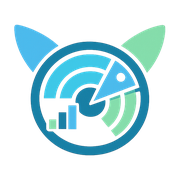
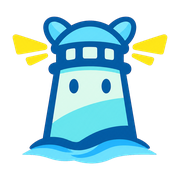
feat(web): refine landing content and branding

diff --git a/apps/web/features/landing/landing-page.tsx b/apps/web/features/landing/landing-page.tsx
@@ -20,7 +20,6 @@ import { getTranslations } from "next-intl/server";
 
 import { Button } from "@/components/ui/button";
 import { brand } from "@/config/brand";
-import { siteConfig } from "@/config/site";
 import type { AppLocale } from "@/i18n/routing";
 
 import {
@@ -164,7 +163,6 @@ export async function LandingPage({
       locale,
       namespace: "Landing",
     })) as LandingTranslator);
-  const otherLocale = locale === "zh" ? "en" : "zh";
   const headerLabels: LandingHeaderLabels = {
     navLabel: t("navLabel"),
     mobileNavLabel: t("mobileNavLabel"),
@@ -334,7 +332,7 @@ export async function LandingPage({
             />
             <SystemFlow t={t} />
             <div className="mt-6 grid gap-4 lg:grid-cols-3">
-              {features.map(([Icon, title, body], index) => (
+              {features.map(([Icon, title, body]) => (
                 <article
                   key={title}
                   className="rounded-3xl border border-glass-border bg-white/82 p-6 shadow-soft"
@@ -348,11 +346,6 @@ export async function LandingPage({
                   <p className="mt-3 text-sm leading-7 text-muted-foreground [text-wrap:pretty]">
                     {body}
                   </p>
-                  {index === 1 ? (
-                    <p className="mt-5 rounded-2xl border border-emerald-200 bg-emerald-50/80 p-4 text-sm font-semibold leading-7 text-emerald-950 [text-wrap:pretty]">
-                      {t("breedingCallout")}
-                    </p>
-                  ) : null}
                 </article>
               ))}
             </div>
@@ -434,24 +427,9 @@ export async function LandingPage({
           <div className="flex flex-wrap gap-x-5 gap-y-3 text-sm font-semibold">
             <a
               className="min-h-11 content-center hover:text-emerald-200"
-              href={siteConfig.repositoryUrl}
-              target="_blank"
-              rel="noopener noreferrer"
+              href="mailto:ghsy950525@gmail.com"
             >
-              {t("footerGithub")}
-            </a>
-            <a
-              className="min-h-11 content-center hover:text-emerald-200"
-              href={`/${locale}/login`}
-            >
-              {t("footerConsole")}
-            </a>
-            <a
-              className="min-h-11 content-center hover:text-emerald-200"
-              href={`/${otherLocale}`}
-              hrefLang={otherLocale === "zh" ? "zh-CN" : "en"}
-            >
-              {t("footerLanguage")}
+              {t("footerDeveloper")}
             </a>
             <span className="min-h-11 content-center text-white/60">
               © {new Date().getUTCFullYear()}

diff --git a/apps/web/tests/landing-content.test.tsx b/apps/web/tests/landing-content.test.tsx
@@ -100,6 +100,9 @@ describe("localized public landing content", () => {
     expect(container.textContent).toContain("脱敏数据");
     expect(container.textContent).toContain("不会上传完整存档");
     expect(container.textContent).toContain("规划多代路线");
+    expect(container.textContent).not.toContain(
+      "不必先找到一只已经集齐全部目标被动的亲本。",
+    );
     expect(container.textContent).toContain("收藏常用方案");
     expect(container.querySelector("[data-system-flow]")).not.toBeNull();
     expect(container.querySelectorAll("[data-system-node]")).toHaveLength(4);
@@ -111,13 +114,23 @@ describe("localized public landing content", () => {
         "Keep your Palworld Visible.",
       ),
     ).toBeTruthy();
+    expect(
+      within(container.querySelector("footer")!)
+        .getByRole("link", {
+          name: "联系方式：ghsy950525@gmail.com",
+        })
+        .getAttribute("href"),
+    ).toBe("mailto:ghsy950525@gmail.com");
     expect(container.textContent).not.toContain("产品界面示意");
     expect(container.textContent).not.toContain(
       "下面的答案与当前 palbeacon-cli 和网页实现保持一致",
     );
     expect(container.textContent).not.toContain("此公开页面不会生成真实配对码");
     expect(container.textContent).not.toContain("palbeacon-sync");
-    expect(container.querySelector('a[href="/en"]')).not.toBeNull();
+    const footer = container.querySelector("footer")!;
+    expect(footer.querySelector('a[href*="github.com"]')).toBeNull();
+    expect(footer.querySelector('a[href$="/login"]')).toBeNull();
+    expect(footer.querySelector("a[hreflang]")).toBeNull();
   });
 
   it("renders a fully localized English main story with the same structure", async () => {
@@ -146,7 +159,14 @@ describe("localized public landing content", () => {
     );
     expect(main.queryByText(/幻兽帕鲁|存档同步|帕鲁库存/)).toBeNull();
     expect(container.textContent).not.toContain("palbeacon-sync");
-    expect(container.querySelector('a[href="/zh"]')).not.toBeNull();
+    const footer = container.querySelector("footer")!;
+    expect(footer.querySelectorAll("a")).toHaveLength(1);
+    expect(footer.querySelector("a")?.textContent).toBe(
+      "Contact: ghsy950525@gmail.com",
+    );
+    expect(footer.querySelector("a")?.getAttribute("href")).toBe(
+      "mailto:ghsy950525@gmail.com",
+    );
   });
 
   it("publishes parseable WebSite, SoftwareApplication and visible FAQ data", async () => {

diff --git a/apps/web/tests/brand.test.ts b/apps/web/tests/brand.test.ts
@@ -1,4 +1,5 @@
-import { statSync } from "node:fs";
+import { createHash } from "node:crypto";
+import { readFileSync, statSync } from "node:fs";
 import { resolve } from "node:path";
 
 import { describe, expect, it } from "vitest";
@@ -34,16 +35,56 @@ describe("PalBeacon brand configuration", () => {
         start_url: "/zh",
       }),
     );
+    expect(manifest().icons?.[0]).toEqual(
+      expect.objectContaining({
+        src: "/icon.png",
+        sizes: "512x512",
+        type: "image/png",
+      }),
+    );
   });
 
   it("ships the optimized logo and browser app icons", () => {
-    for (const path of [
-      "public/brand/palbeacon-logo.png",
-      "app/icon.png",
-      "app/apple-icon.png",
-      "app/favicon.ico",
-    ]) {
+    const assets = {
+      "public/brand/palbeacon-logo.png":
[1 lines of base64/hex data omitted]
+      "app/icon.png":
[1 lines of base64/hex data omitted]
+      "app/apple-icon.png":
[1 lines of base64/hex data omitted]
+      "app/favicon.ico":
[1 lines of base64/hex data omitted]
+    } as const;
+
+    for (const [path, expectedHash] of Object.entries(assets)) {
       expect(statSync(resolve(process.cwd(), path)).size).toBeGreaterThan(0);
+      expect(
+        createHash("sha256")
+          .update(readFileSync(resolve(process.cwd(), path)))
+          .digest("hex"),
+      ).toBe(expectedHash);
     }
+
+    for (const [path, expectedSize] of [
+      ["public/brand/palbeacon-logo.png", 1024],
+      ["app/icon.png", 512],
+      ["app/apple-icon.png", 180],
+    ] as const) {
+      const png = readFileSync(resolve(process.cwd(), path));
+      expect(png.readUInt32BE(16)).toBe(expectedSize);
+      expect(png.readUInt32BE(20)).toBe(expectedSize);
+      expect(png[25]).toBe(6);
+    }
+  });
+
+  it("lets Next.js fingerprint file-based browser icons", () => {
+    const localeLayout = readFileSync(
+      resolve(process.cwd(), "app/[locale]/layout.tsx"),
+      "utf8",
+    );
+
+    expect(localeLayout).not.toContain('url: "/favicon.ico"');
+    expect(localeLayout).not.toContain('url: "/icon.png"');
+    expect(localeLayout).not.toContain('url: "/apple-icon.png"');
   });
 });

diff --git a/apps/web/features/landing/product-carousel.tsx b/apps/web/features/landing/product-carousel.tsx
@@ -520,9 +520,11 @@ function RouteSlide({ locale }: Readonly<{ locale: AppLocale }>) {
         <CompactMetric value="4" label={t("carouselTargetPassives")} />
         <CompactMetric value="0" label={t("carouselMissing")} />
       </div>
-      <div className="flex items-center gap-2 rounded-2xl bg-primary px-3 py-3 text-xs font-bold text-primary-foreground shadow-sm">
+      <div className="flex min-w-0 items-center gap-2 rounded-2xl bg-primary px-3 py-3 text-xs font-bold text-primary-foreground shadow-sm">
         <GitBranch aria-hidden="true" className="size-4 shrink-0" />
-        <span className="[text-wrap:pretty]">{t("carouselRouteHint")}</span>
+        <span data-route-hint className="min-w-0 truncate whitespace-nowrap">
+          {t("carouselRouteHint")}
+        </span>
       </div>
     </div>
   );
@@ -692,10 +694,13 @@ function RoutePreviewCard({
           </h3>
         </div>
       </div>
-      <div className="mt-1 flex min-w-0 flex-wrap items-center gap-1">
+      <div
+        data-route-status-row
+        className="mt-1 flex min-w-0 flex-nowrap items-center gap-1"
+      >
         <span
           className={cn(
-            "truncate rounded-full border px-1.5 py-0.5 text-[0.5rem] font-bold min-[460px]:text-[0.62rem]",
+            "min-w-0 truncate rounded-full border px-1.5 py-0.5 text-[0.5rem] font-bold min-[460px]:text-[0.62rem]",
             tone === "target"
               ? "border-violet-300 bg-violet-600 text-white"
               : tone === "intermediate"
@@ -705,7 +710,7 @@ function RoutePreviewCard({
         >
           {status}
         </span>
-        <span className="inline-flex items-center gap-0.5 text-[0.55rem] font-semibold text-muted-foreground min-[460px]:text-[0.62rem]">
+        <span className="inline-flex shrink-0 items-center gap-0.5 text-[0.55rem] font-semibold whitespace-nowrap text-muted-foreground min-[460px]:text-[0.62rem]">
           {gender === "male" ? (
             <Mars aria-hidden="true" className="size-3 text-sky-600" />
           ) : gender === "female" ? (

diff --git a/apps/web/e2e/landing.spec.ts b/apps/web/e2e/landing.spec.ts
@@ -123,6 +123,50 @@ test("keeps the localized landing content readable on narrow screens", async ({
   }
 });
 
+test("keeps the English breeding preview on one compact visual rhythm", async ({
+  page,
+}) => {
+  await page.setViewportSize({ width: 620, height: 1000 });
+  await page.goto("/en");
+  await page
+    .getByRole("button", { name: "Slide 2: Breeding route tree" })
+    .click();
+
+  const statusRows = page.locator("[data-route-status-row]");
+  await expect(statusRows).toHaveCount(5);
+  for (const row of await statusRows.all()) {
+    const children = row.locator(":scope > *");
+    const statusBox = await children.nth(0).boundingBox();
+    const genderBox = await children.nth(1).boundingBox();
+    expect(statusBox).not.toBeNull();
+    expect(genderBox).not.toBeNull();
+    const statusCenter = statusBox!.y + statusBox!.height / 2;
+    const genderCenter = genderBox!.y + genderBox!.height / 2;
+    expect(Math.abs(statusCenter - genderCenter)).toBeLessThanOrEqual(1);
+  }
+
+  for (const node of await page.locator("[data-route-node]").all()) {
+    const nodeBox = await node.boundingBox();
+    const badges = node.locator(".passive-badge");
+    for (const badge of await badges.all()) {
+      const badgeBox = await badge.boundingBox();
+      expect(badgeBox!.y + badgeBox!.height).toBeLessThanOrEqual(
+        nodeBox!.y + nodeBox!.height + 1,
+      );
+    }
+  }
+
+  const hint = page.locator("[data-route-hint]");
+  await expect(hint).toHaveText("Combine passives across generations.");
+  expect(
+    await hint.evaluate(
+      (element) =>
+        element.getBoundingClientRect().height <=
+        Number.parseFloat(getComputedStyle(element).lineHeight) + 1,
+    ),
+  ).toBe(true);
+});
+
 test("keeps locale negotiation at the root", async ({ request }) => {
   const english = await request.get("/", {
     headers: { "Accept-Language": "en-US" },

diff --git a/apps/web/tests/product-carousel.test.tsx b/apps/web/tests/product-carousel.test.tsx
@@ -127,4 +127,25 @@ describe("landing product carousel", () => {
     act(() => vi.advanceTimersByTime(12000));
     expect(activeSlide(container)).toContain("Lamball");
   });
+
+  it("keeps English route status, gender, passives and hint compact", () => {
+    mockReducedMotion(true);
+    const { container, getByRole } = render(<ProductCarousel locale="en" />);
+
+    fireEvent.click(
+      getByRole("button", { name: "Slide 2: Breeding route tree" }),
+    );
+
+    const statusRows = container.querySelectorAll("[data-route-status-row]");
+    expect(statusRows).toHaveLength(5);
+    for (const row of statusRows) {
+      expect(row.className).toContain("flex-nowrap");
+    }
+    expect(container.querySelector("[data-route-hint]")?.textContent).toBe(
+      "Combine passives across generations.",
+    );
+    expect(container.querySelector("[data-route-hint]")?.className).toContain(
+      "whitespace-nowrap",
+    );
+  });
 });

diff --git a/apps/web/app/[locale]/layout.tsx b/apps/web/app/[locale]/layout.tsx
@@ -39,13 +39,6 @@ export async function generateMetadata({
     keywords: [brand.name, "Palworld", ...t("keywords").split(",")],
     applicationName: brand.name,
     manifest: "/manifest.webmanifest",
-    icons: {
-      icon: [
-        { url: "/favicon.ico", sizes: "any" },
-        { url: "/icon.png", type: "image/png", sizes: "512x512" },
-      ],
-      apple: [{ url: "/apple-icon.png", sizes: "180x180" }],
-    },
     openGraph: { title, description, siteName: brand.name, type: "website" },
     twitter: { card: "summary", title, description },
     appleWebApp: { capable: true, title: brand.name },

diff --git a/apps/web/app/manifest.ts b/apps/web/app/manifest.ts
@@ -13,7 +13,7 @@ export default function manifest(): MetadataRoute.Manifest {
     theme_color: "#287a54",
     icons: [
       {
-        src: brand.logoPath,
+        src: "/icon.png",
         sizes: "512x512",
         type: "image/png",
         purpose: "any",

diff --git a/docs/superpowers/specs/2026-07-13-palworld-breeding-system-design.md b/docs/superpowers/specs/2026-07-13-palworld-breeding-system-design.md
@@ -1474,7 +1474,11 @@ palbeacon run
    已绑定但非最新状态为“已过期”；英文分别为 `Unbound`、`Latest`、`Expired`。
 4. GitHub 图标入口位于每个语言切换器左侧，链接固定为
    `https://github.com/MetalLee/PalHatchHelper`，新标签页打开并使用安全的外链关系属性。入口使用
-   适配 Header 的 18 像素 GitHub 标记、至少 44 像素点击区域、当前语言可访问名称和清晰焦点。
+    适配 Header 的 18 像素 GitHub 标记、至少 44 像素点击区域、当前语言可访问名称和清晰焦点。
+5. 网站 Logo 与浏览器图标使用同一份居中方形灯塔品牌图：母版为 1024×1024，应用图标为
+   512×512，Apple 图标为 180×180，favicon 内含 16、32、48 像素版本。灯塔、左右光束和水波作为
+   完整图案水平、垂直居中并保留安全边距，外部背景完全透明且不得残留色键或暗色底；manifest 的
+   512×512 项引用 `/icon.png`。
 
 ## 26. 公开双语首页与搜索收录
 
@@ -1518,3 +1522,9 @@ palbeacon run
     白色背景、毛玻璃模糊、饱和度、边框和阴影按同一条平滑缓动曲线连续显现，不得在单一阈值突变。顶部 GitHub 入口只显示
     图标但保留可访问名称；语言切换必须复用控制台的弹出式单选菜单，桌面显示当前语言，移动端使用
     紧凑图标触发器，不再维护直接跳转到另一语言的第二套顶部控件。
+15. “规划多代路线”能力卡只保留标题和主体说明，不额外展示“先找到集齐全部目标被动亲本”的提示。
+    Footer 提供开发者邮件 `ghsy950525@gmail.com` 的可点击联系入口。浏览器图标由 Next.js 文件约定
+    生成 metadata，避免以布局 metadata 固定无内容指纹的图标 URL，使本地图标更新可被浏览器识别。
+16. Footer 不再重复提供 GitHub、登录/控制台和语言切换入口，只保留品牌信息、开发者邮件与版权。
+    英文路线轮播中的状态与性别必须保持同一行，状态可在空间不足时省略，但性别和被动不得被挤出
+    卡片；路线提示使用可在轮播宽度内单行展示的精简文案。

diff --git a/docs/superpowers/plans/2026-07-13-palworld-breeding-system-implementation.md b/docs/superpowers/plans/2026-07-13-palworld-breeding-system-implementation.md
@@ -1216,6 +1216,13 @@ Vercel 回滚上一预览/生产构建；数据库无破坏性变化，功能路
    `GitHubLink` 和 `LocaleSwitcher`，完成键盘、reduced-motion、320–1440 像素和生产构建验证。
 8. 顶栏滚动视觉使用单一 smoothstep 曲线连续驱动背景透明度、blur、saturate、边框与阴影，在较长
    滚动区间内慢入慢出；测试分别采样顶端、前段、中段和稳定态，禁止恢复为阈值式整段模糊切换。
+9. 以用户提供的灯塔图为编辑目标生成透明、居中的方形母版，再用高质量预乘 Alpha 缩放统一派生
+   512px、180px 与 16/32/48px 图标；用 SHA-256 与 PNG RGBA 测试锁定四份交付资产，浏览器分别
+   在浅色和深色背景检查 Header、manifest 和 favicon，禁止残留色键或暗色底。
+10. 收口 Landing 能力卡文案，Footer 增加开发者邮件入口；移除语言布局中固定的图标 metadata，
+    让 Next.js 从本地图标文件生成带内容指纹的应用图标 URL，并以单元测试和生产构建 HTML 校验。
+11. 删除 Footer 中重复的 GitHub、控制台和语言入口；在英文路线轮播中固定状态/性别同排、完整
+    被动可见和精简提示单行展示，并以 620px 浏览器几何断言覆盖截图中的换行与裁切问题。
 
 ## Phase 8：管理员功能、部署和端到端验收
 
